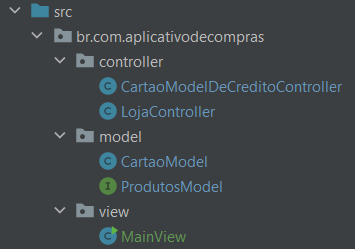
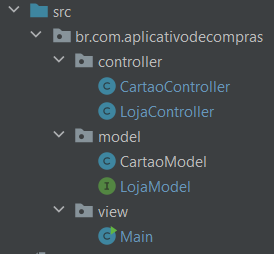
Imagem MVC atualizada

diff --git a/src/br/com/aplicativodecompras/controller/LojaController.java b/src/br/com/aplicativodecompras/controller/LojaController.java
@@ -1,13 +1,13 @@
 package br.com.aplicativodecompras.controller;
 
-import br.com.aplicativodecompras.model.ProdutosModel;
+import br.com.aplicativodecompras.model.LojaModel;
 
 import java.util.Scanner;
 import java.util.ArrayList;
 import java.util.Set;
 import java.util.Collections;
 
-public class LojaController extends CartaoModelDeCreditoController implements ProdutosModel {
+public class LojaController extends CartaoController implements LojaModel {
     protected Scanner scanner = new Scanner(System.in);
 
     public void iniciar() {

diff --git a/src/br/com/aplicativodecompras/view/Main.java b/src/br/com/aplicativodecompras/view/Main.java
@@ -2,7 +2,7 @@ package br.com.aplicativodecompras.view;
 
 import br.com.aplicativodecompras.controller.LojaController;
 
-public class MainView extends LojaController {
+public class Main extends LojaController {
     public static void main (String[] args){
         LojaController loja = new LojaController();
         loja.definirLimite();

diff --git a/src/br/com/aplicativodecompras/model/LojaModel.java b/src/br/com/aplicativodecompras/model/LojaModel.java
@@ -4,7 +4,7 @@ import java.util.ArrayList;
 import java.util.Arrays;
 import java.util.HashMap;
 
-public interface ProdutosModel {
+public interface LojaModel {
     public HashMap<String, Integer> carrinhoDeCompras = new HashMap<>();
     public ArrayList<String> produtos = new ArrayList<>(Arrays.asList(
             "Sapato", "Mouse",

diff --git a/src/br/com/aplicativodecompras/controller/CartaoController.java b/src/br/com/aplicativodecompras/controller/CartaoController.java
@@ -4,7 +4,7 @@ import br.com.aplicativodecompras.model.CartaoModel;
 
 import java.util.Scanner;
 
-public class CartaoModelDeCreditoController extends CartaoModel {
+public class CartaoController extends CartaoModel {
 
     Scanner scanner = new Scanner(System.in);
     @Override
